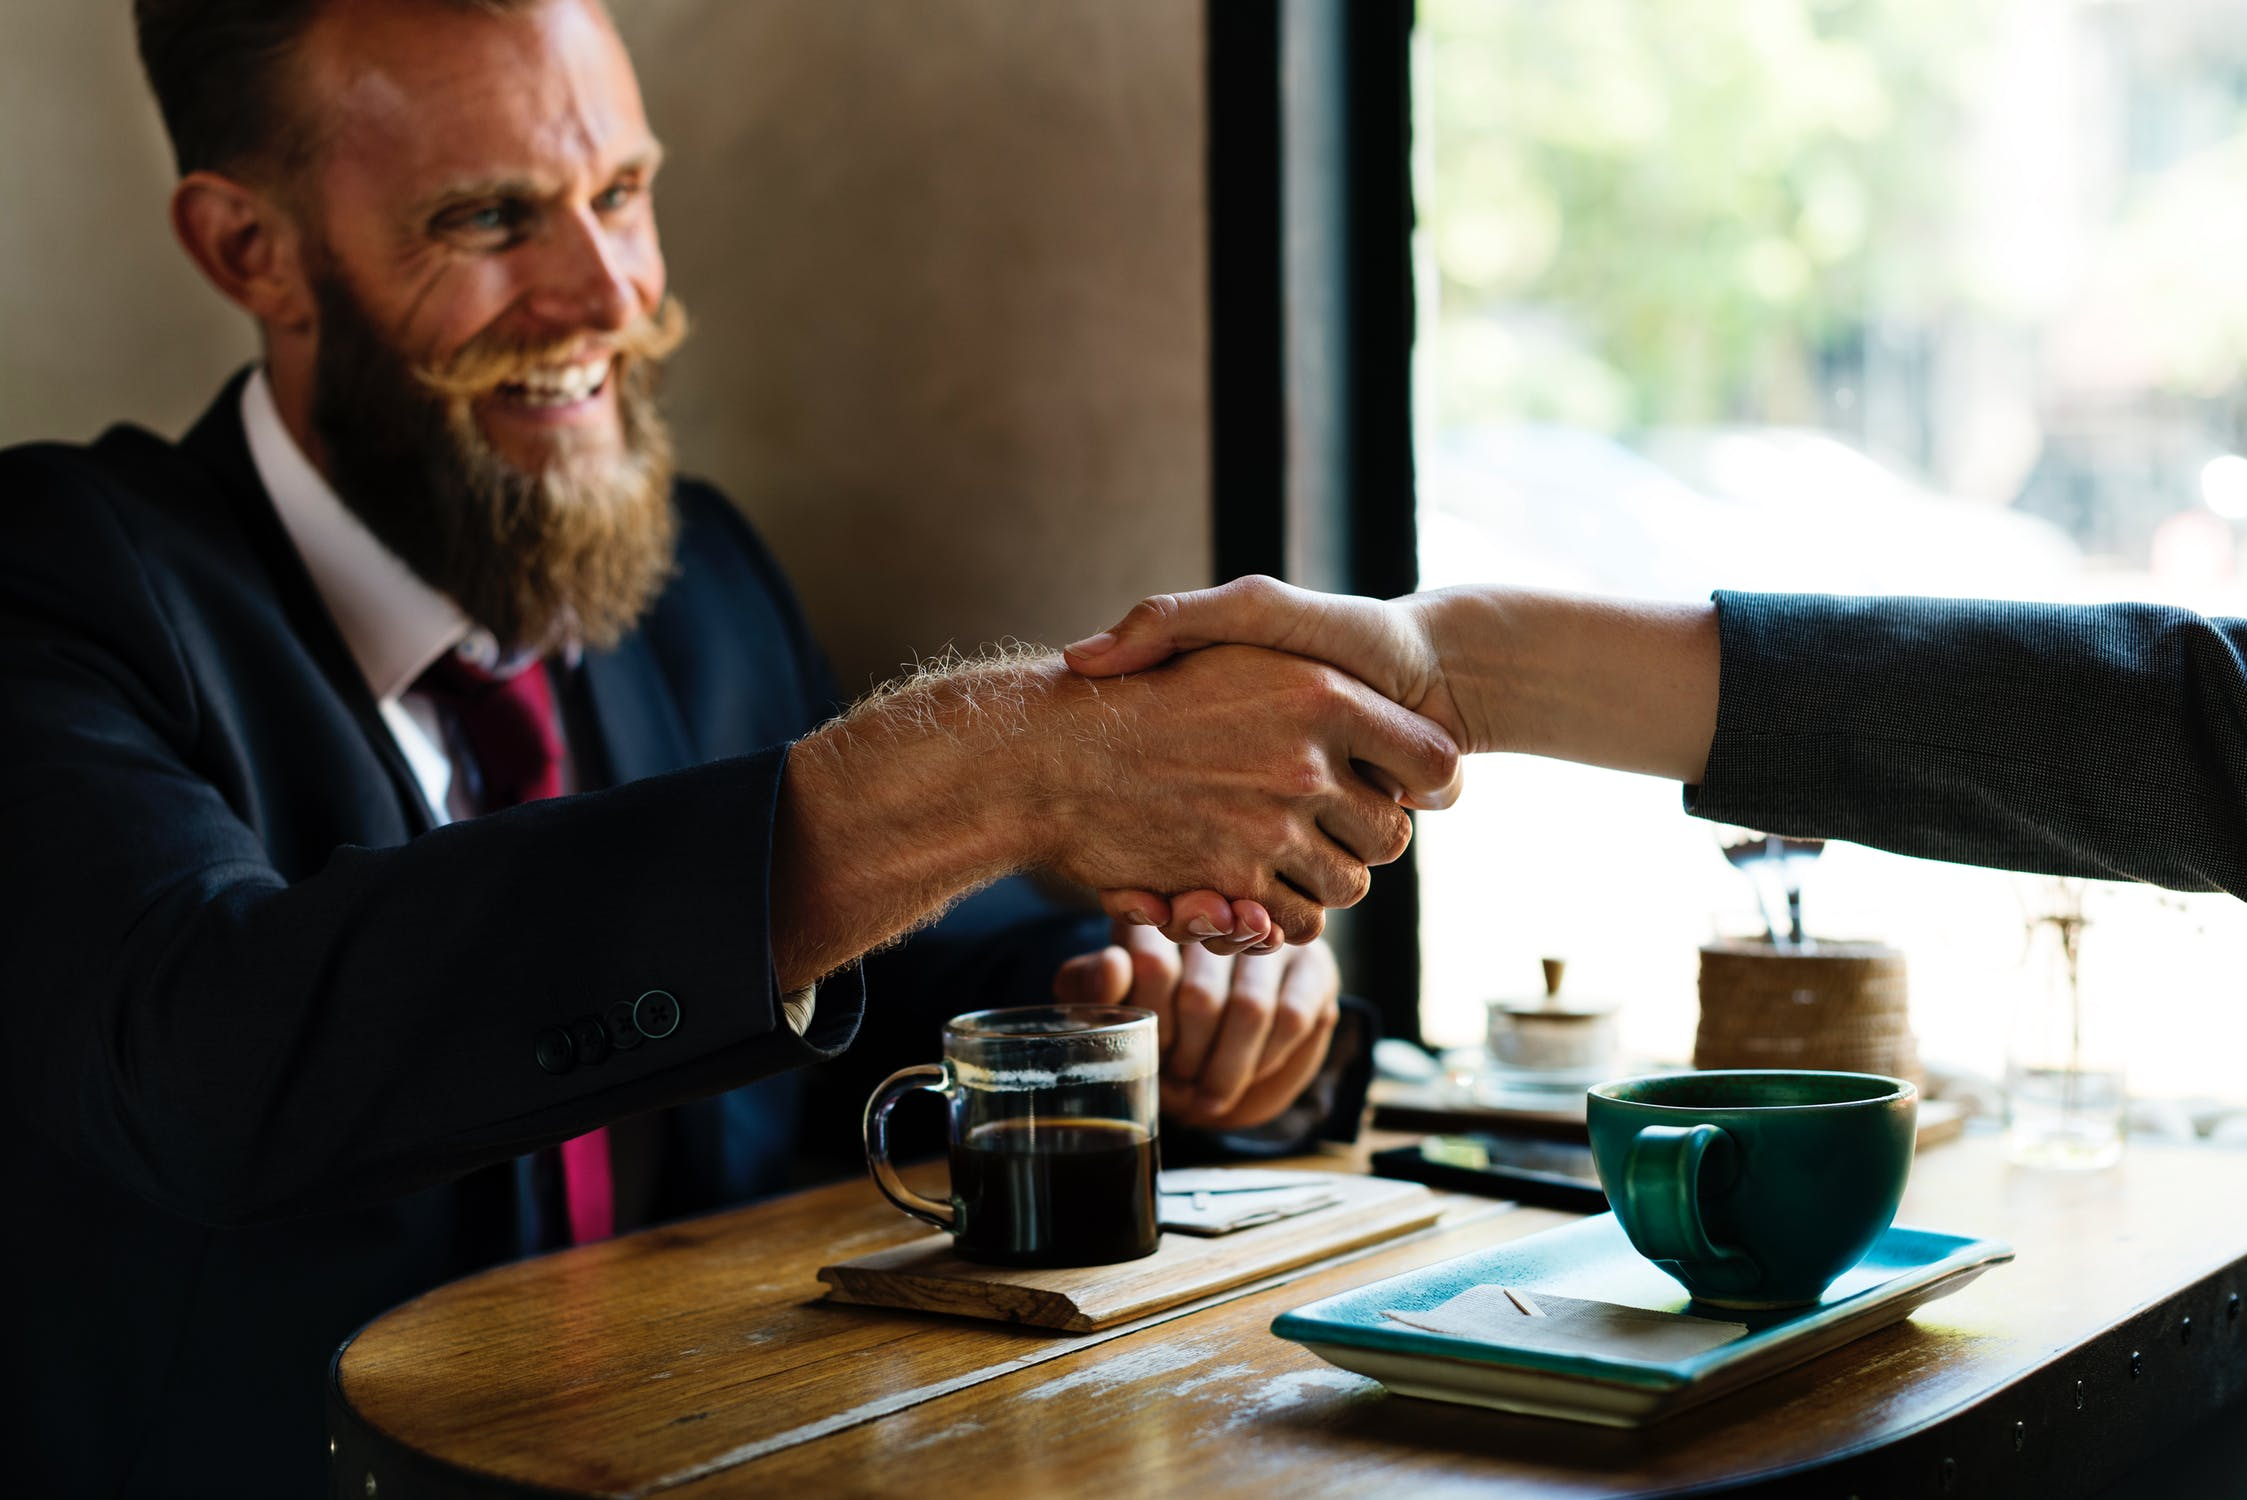
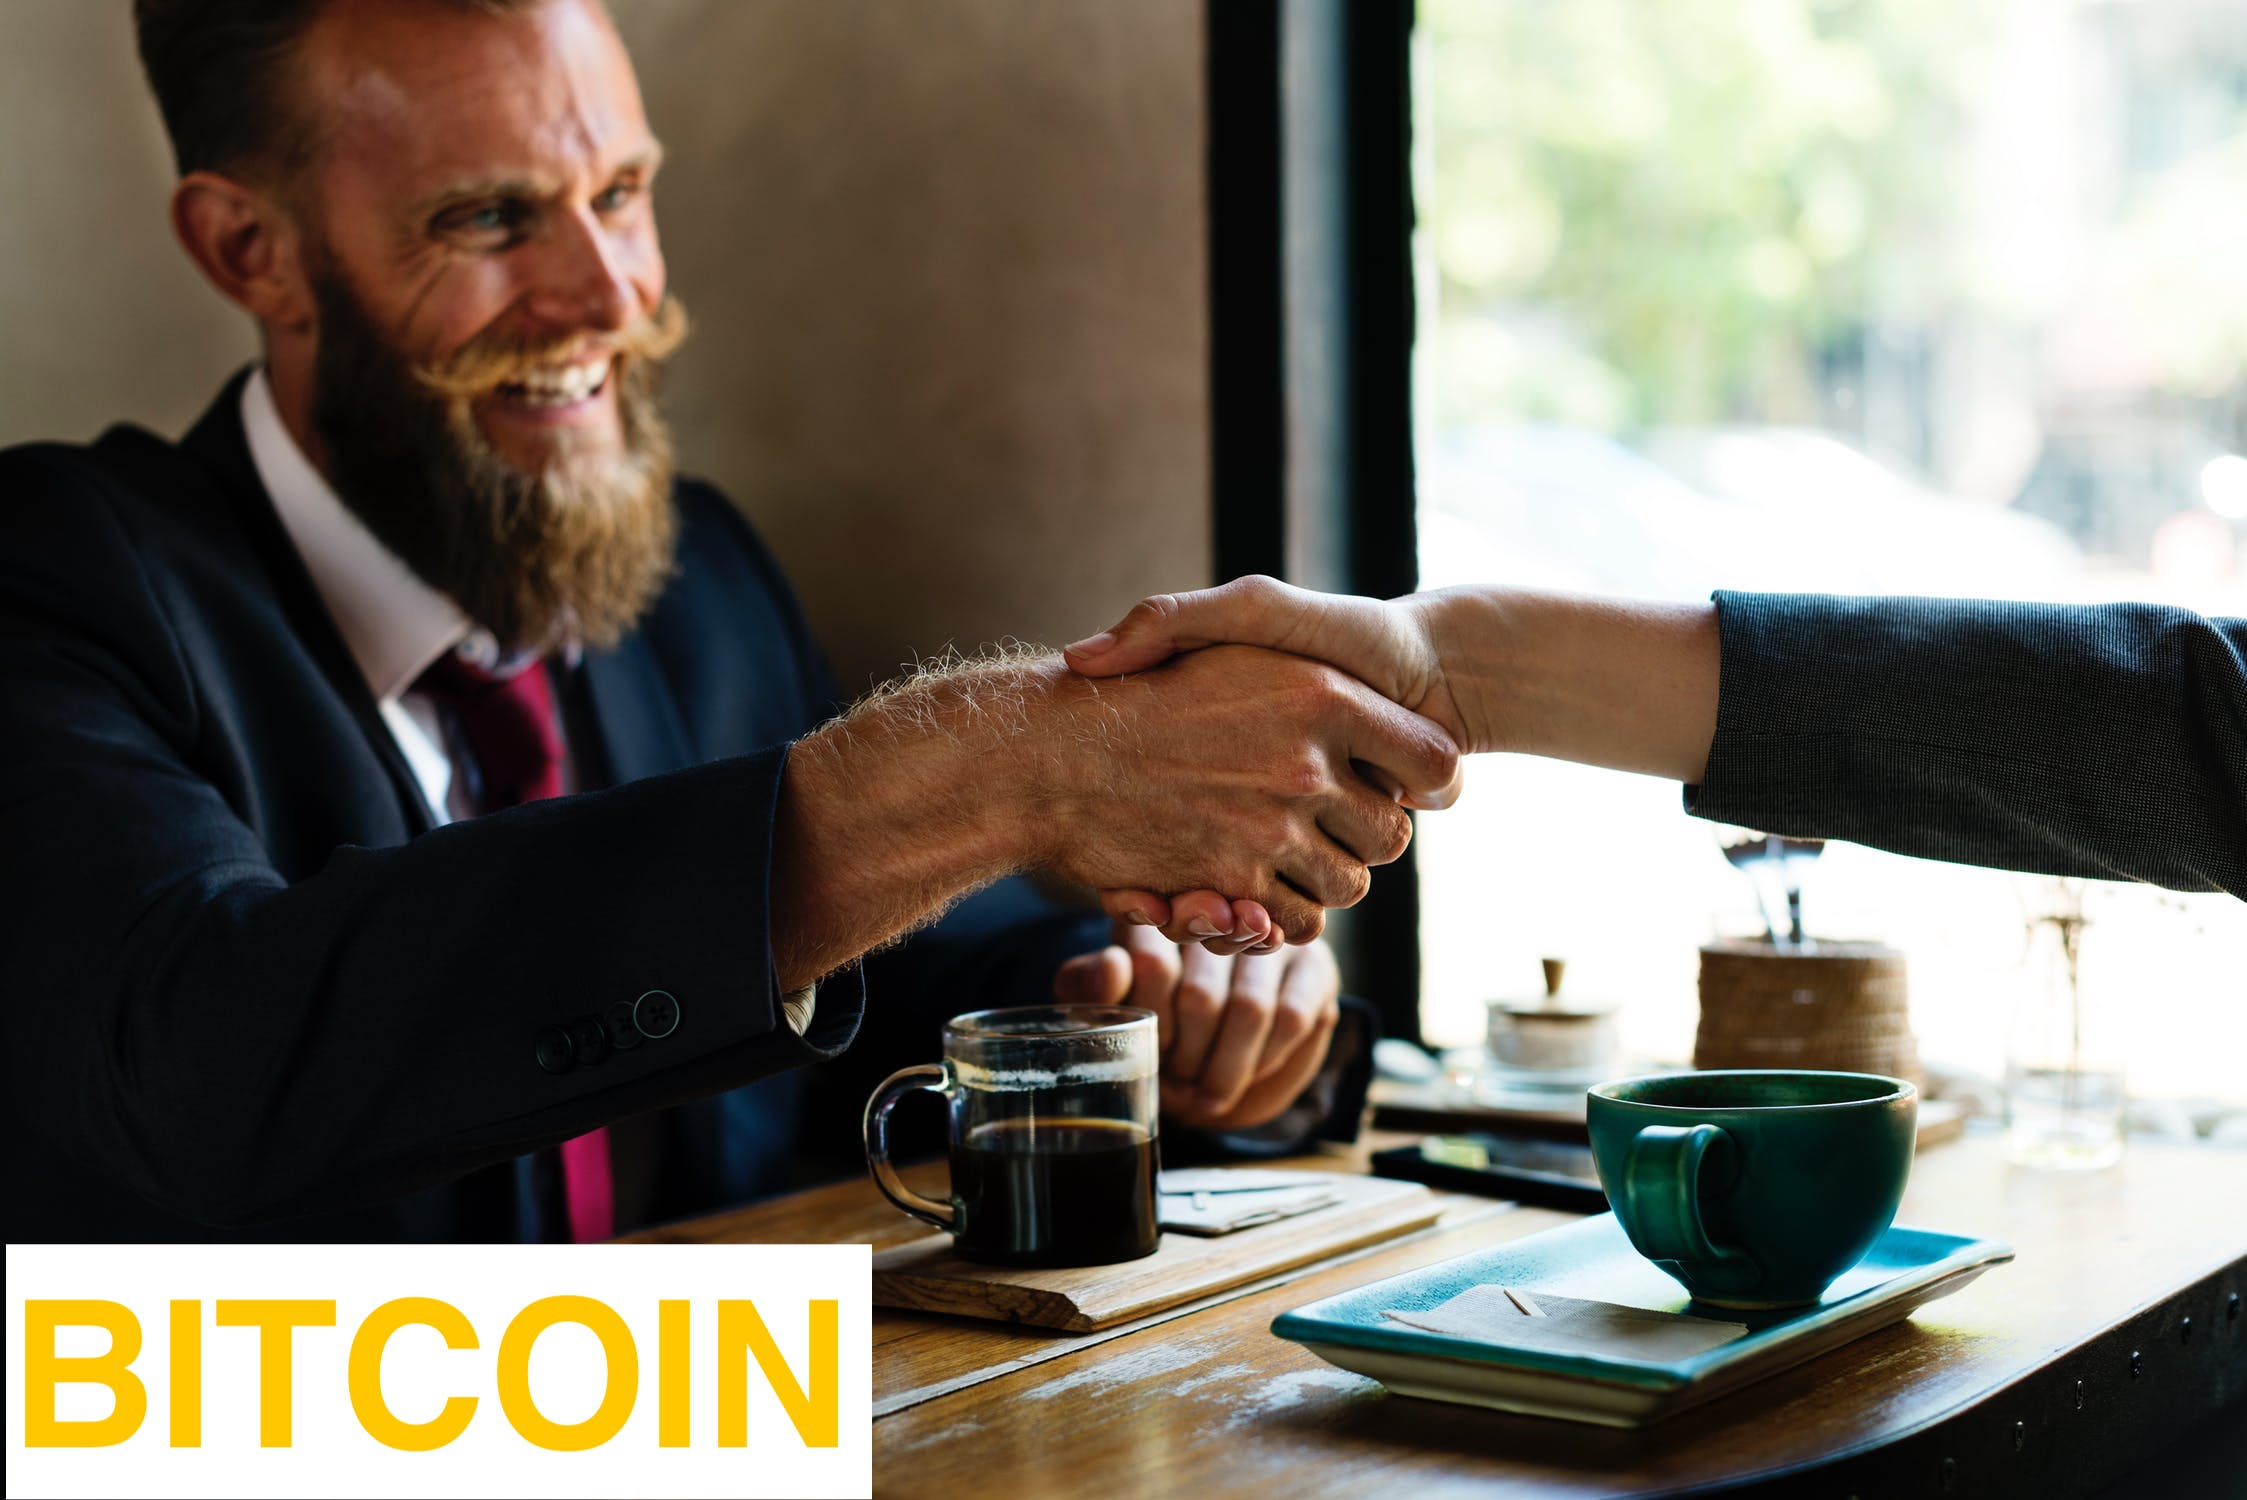
im ruining everything

Changed region(s): [[0.0, 0.828, 0.405, 1.0]]

diff --git a/app/stocks/partials/invest.html b/app/stocks/partials/invest.html
@@ -1,4 +1,4 @@
-      <img id="btcPic" src="https://raw.githubusercontent.com/john-dulaney/front-end-capstone/master/app/stocks/partials/images/city.jpeg">
+      <img id="btcPic" src="https://raw.githubusercontent.com/john-dulaney/front-end-capstone/master/app/stocks/partials/images/btc.jpeg">
 </div>
 
 <section class="section">
@@ -7,7 +7,7 @@
                 <div class="col s12 m7">
                   <div class="card">
                     <div class="card-image">
-                      <img src="BITCOIN">
+                      <img src="https://raw.githubusercontent.com/john-dulaney/front-end-capstone/master/app/stocks/partials/images/btc2.jpeg">
                       <span class="card-title">Checkout Bitcoin!</span>
                     </div>
                     <div class="card-content">
